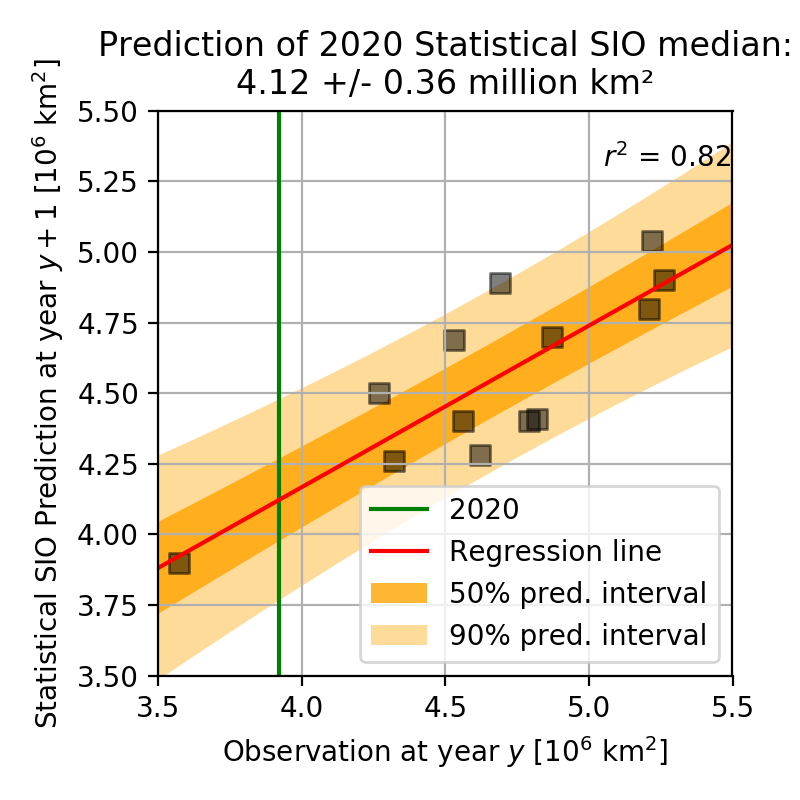
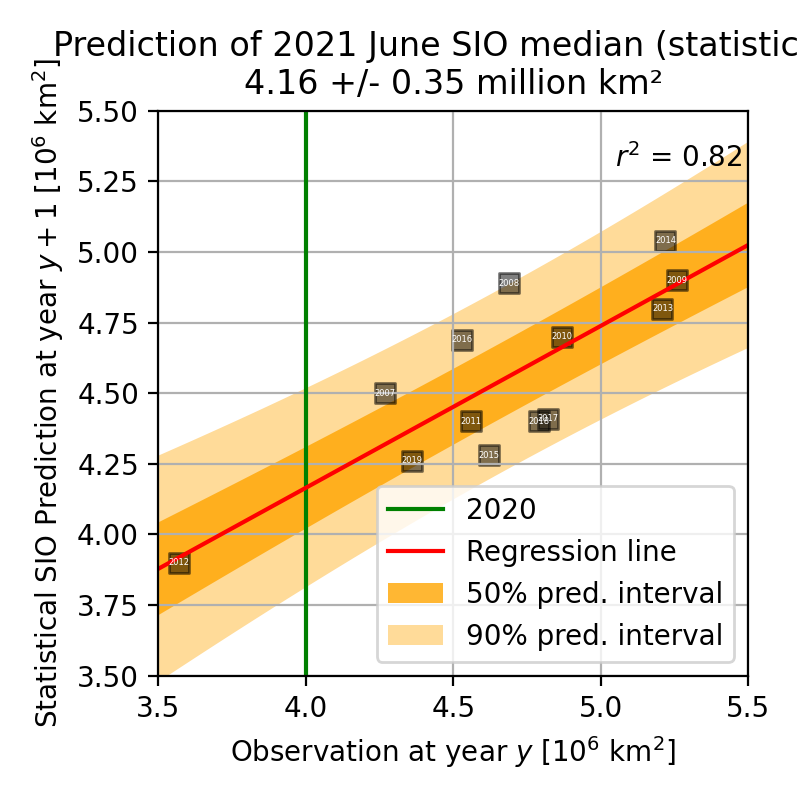
June 2021 update

diff --git a/sio_predicting_predictions.py b/sio_predicting_predictions.py
@@ -21,7 +21,7 @@ import calendar
 
 # Add SIO data (June submissions)
 methname = ["All",  "Dynamical", "Statistical", "Heuristic", "Mixed"]
-method = 0
+method = 2
 
 #       Year   obs   [ALL,    DYN,    STAT,   HEUR,   MIX]
 data = [
